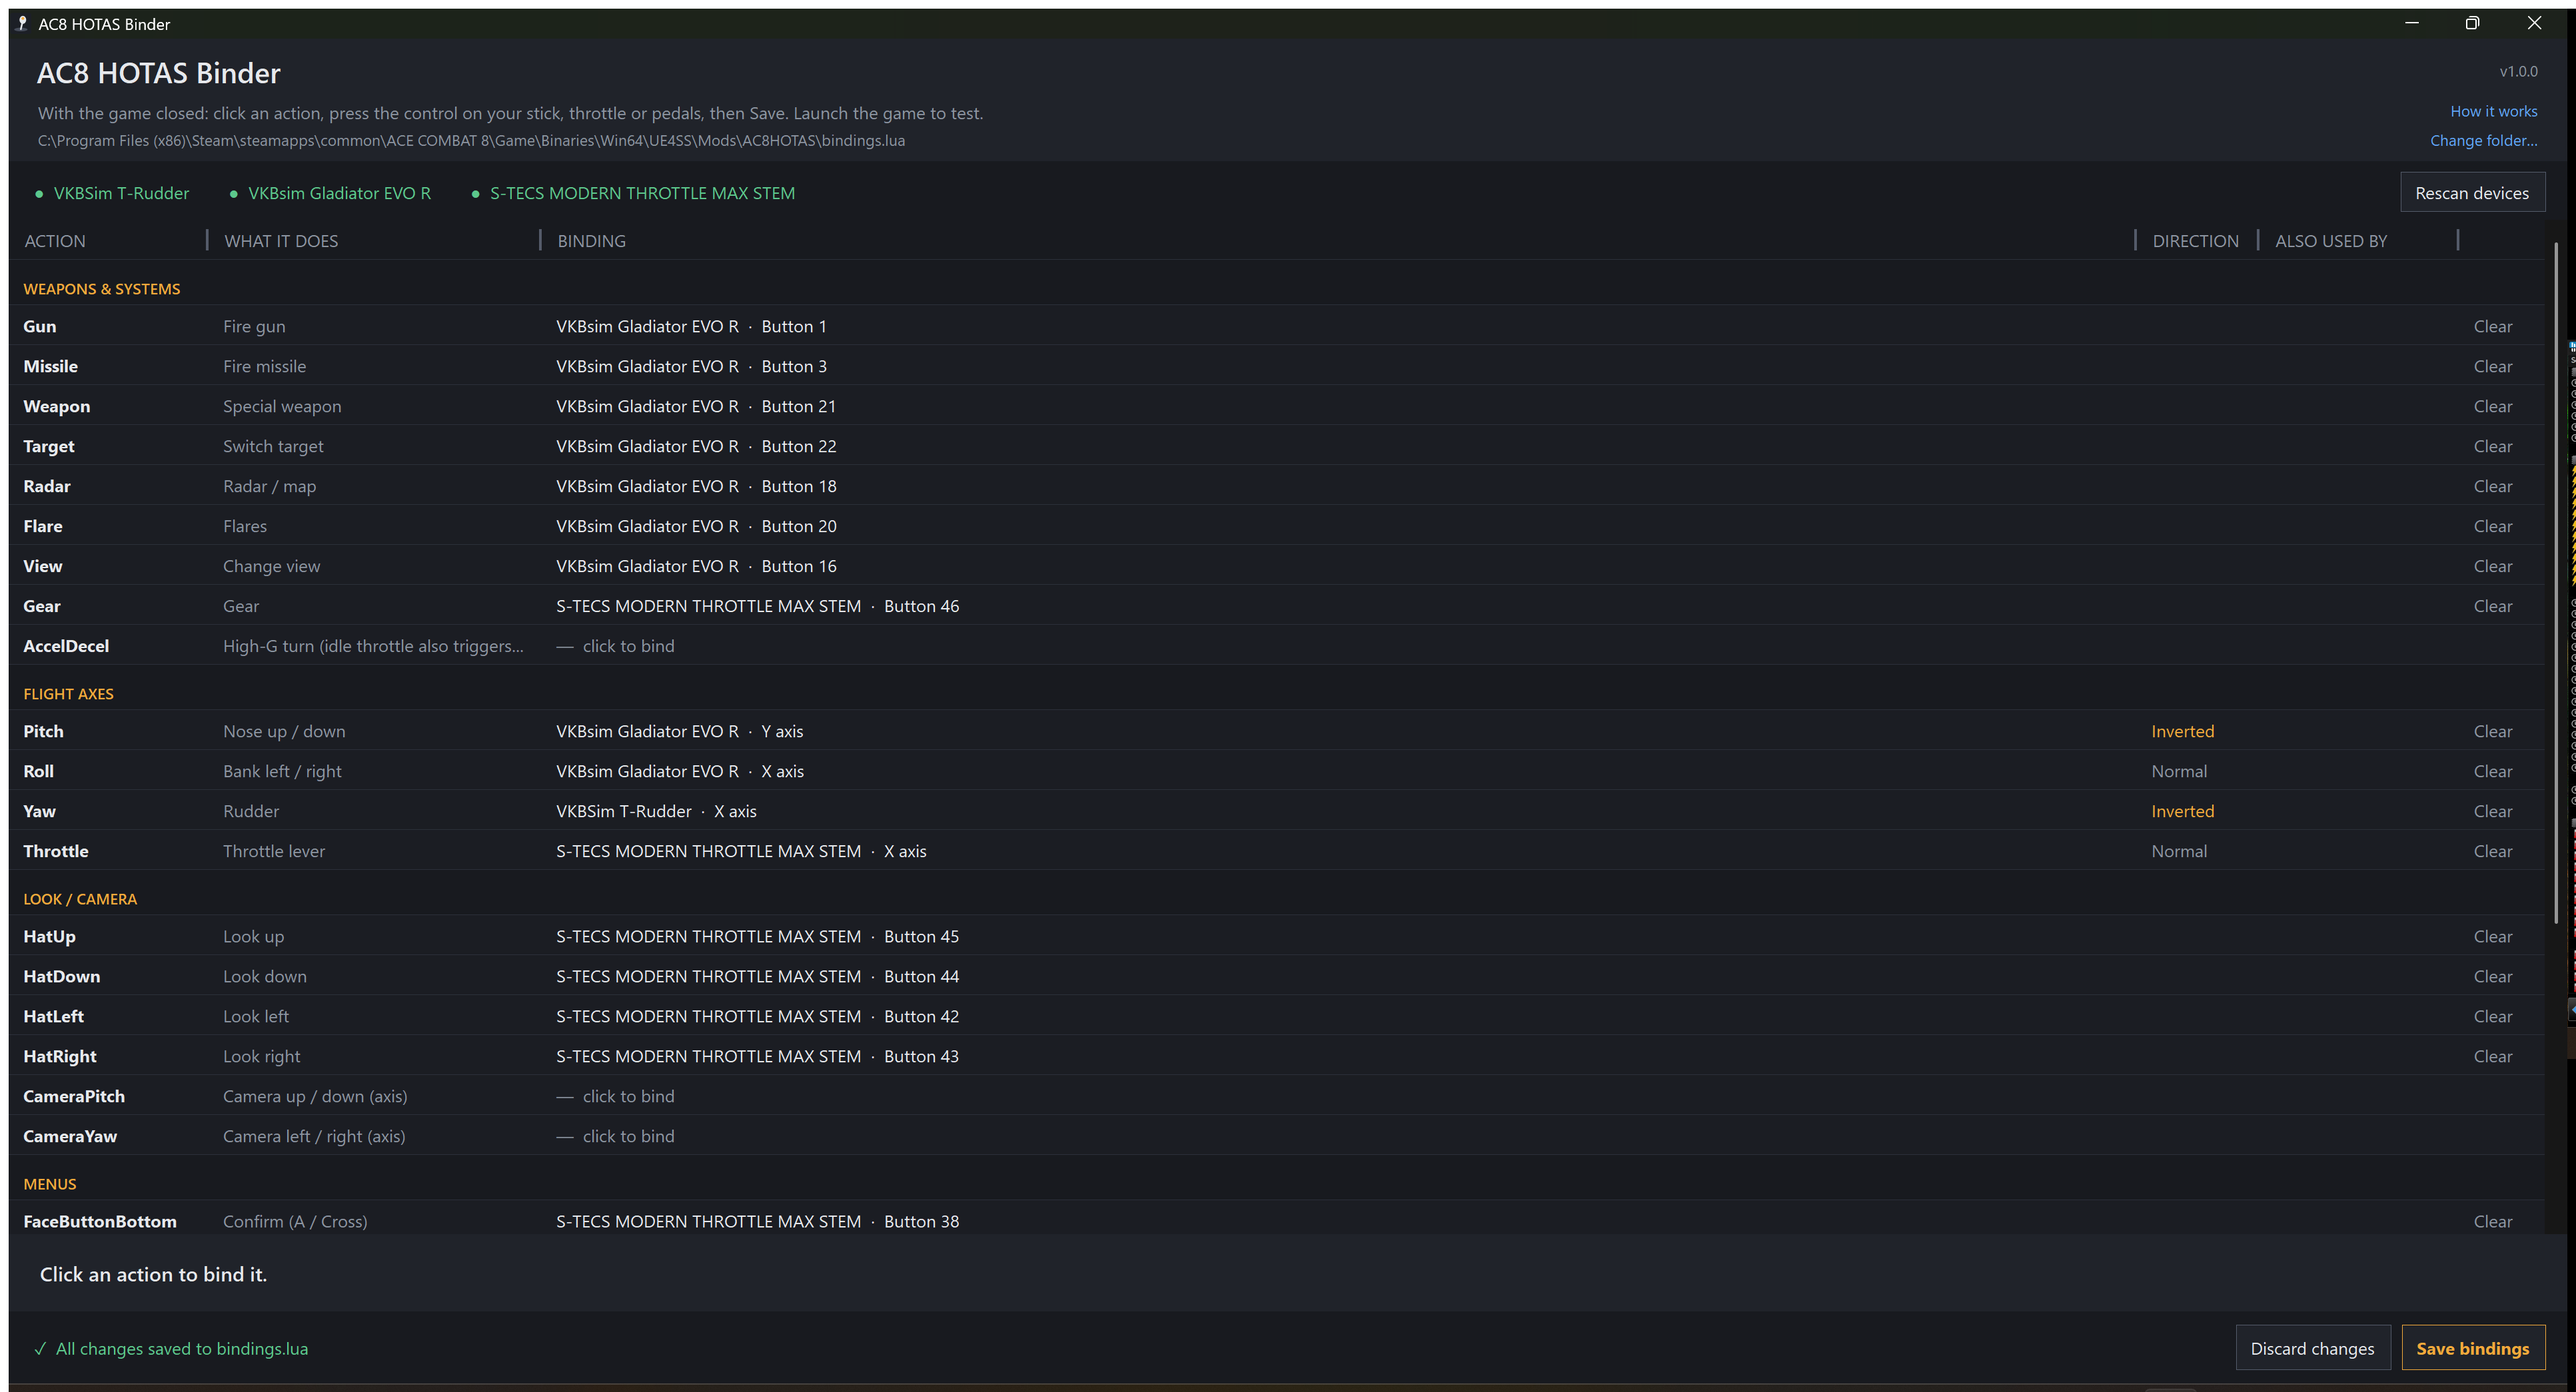
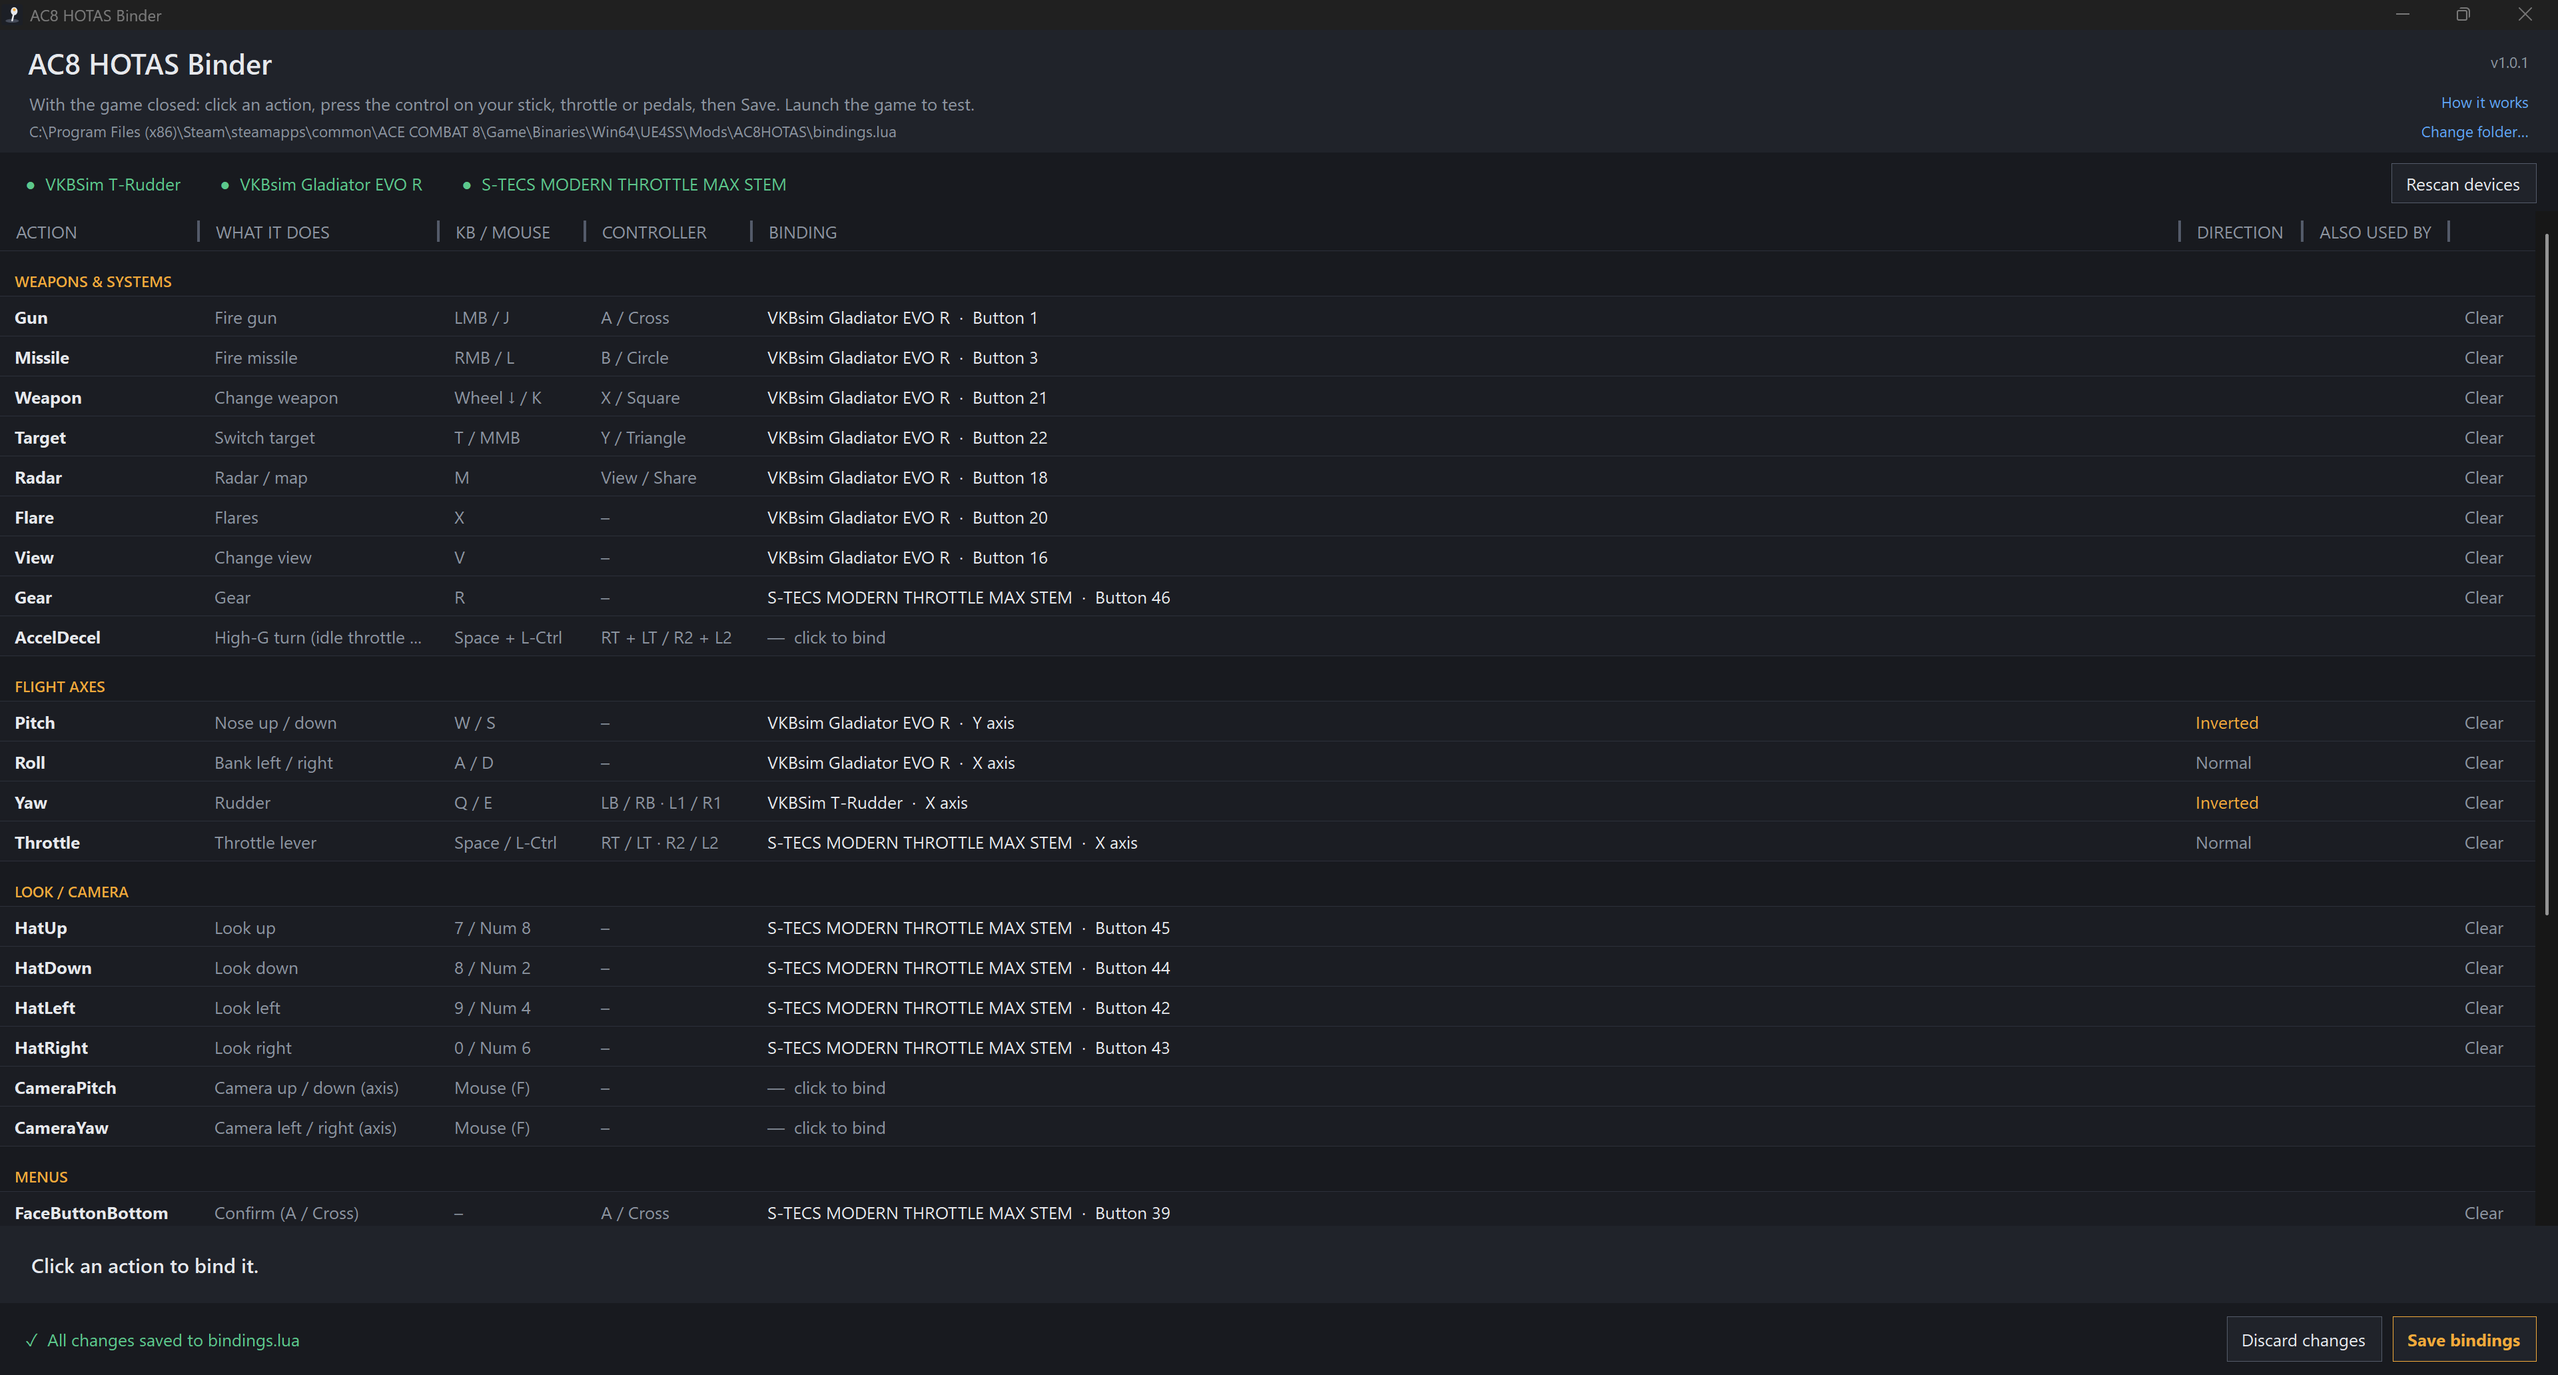
AC8 HOTAS Binder 1.0.1
Bump the version to 1.0.1, shorten the Weapon hint to "Change weapon"
so it fits its column, and refresh the README screenshots to show the
new default-controls columns.

diff --git a/src/Binder.cs b/src/Binder.cs
@@ -28,14 +28,14 @@ using Microsoft.Win32.SafeHandles;
 [assembly: AssemblyProduct("AC8 HOTAS Binder")]
 [assembly: AssemblyCompany("PhantomLasagne")]
 [assembly: AssemblyCopyright("Copyright (c) 2026 PhantomLasagne. MIT License.")]
-[assembly: AssemblyVersion("1.0.0.0")]
-[assembly: AssemblyFileVersion("1.0.0.0")]
+[assembly: AssemblyVersion("1.0.1.0")]
+[assembly: AssemblyFileVersion("1.0.1.0")]
 
 namespace AC8HotasBinder
 {
     static class Program
     {
-        public const string Version = "1.0.0";
+        public const string Version = "1.0.1";
 
         [STAThread]
         static int Main(string[] args)
@@ -76,7 +76,7 @@ namespace AC8HotasBinder
             string g = "WEAPONS & SYSTEMS";
             B(l, g, "Gun", "Fire gun");
             B(l, g, "Missile", "Fire missile");
-            B(l, g, "Weapon", "Change weapon (missiles / special)");
+            B(l, g, "Weapon", "Change weapon");
             B(l, g, "Target", "Switch target");
             B(l, g, "Radar", "Radar / map");
             B(l, g, "Flare", "Flares");
